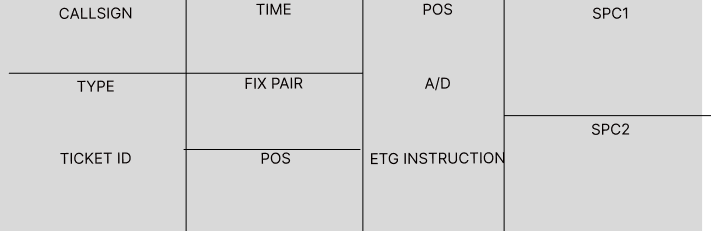
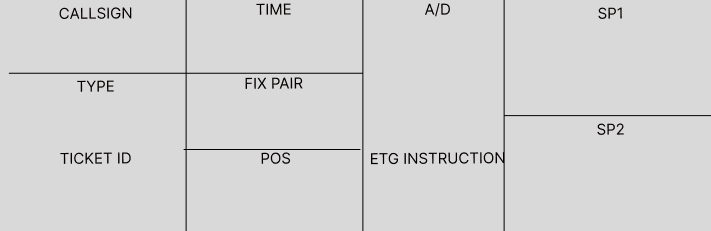
updated flight strip

diff --git a/SimFast/keyboard.js b/SimFast/keyboard.js
@@ -9,6 +9,107 @@ function addCharacter(character) {
   }
 
   function displayflightstrip(){
+
   const textField = document.getElementById("callsigntext");
-  textField.value += "001";
+  const ticketid = document.getElementById("ticketid");
+  const type = document.getElementById("type");
+  const fixpair = document.getElementById("fixpair");
+  const sp1 = document.getElementById("sp1");
+  const sp2 = document.getElementById("sp2");
+  const pos = document.getElementById("pos");
+  const ad = document.getElementById("ad");
+  const time = document.getElementById("time");
+  const etg= document.getElementById("etg");
+
+  textField.value = "";
+  ticketid.value = "";
+  type.value = "";
+  fixpair.value = "";
+  sp1.value = "";
+  sp2.value = "";
+  pos.value = "";
+  ad.value = "";
+  time.value = "";
+  etg.value = "";
+
+  textField.value += "AAL4401";
+  ticketid.value += "001";
+  type.value += "B350";
+  fixpair.value += "RBV.VCN";
+  sp1.value += "VCN";
+  sp2.value += "";
+  pos.value += "1V";
+  ad.value += "E";
+  time.value += "00:02:32";
+  etg.value += "A090H195";
   }
+
+//
+
+  function displayflightstrip2(){
+
+    const textField2 = document.getElementById("callsigntext");
+    const ticketid2 = document.getElementById("ticketid");
+    const type2 = document.getElementById("type");
+    const fixpair2 = document.getElementById("fixpair");
+    const sp12 = document.getElementById("sp1");
+    const sp22 = document.getElementById("sp2");
+    const pos2 = document.getElementById("pos");
+    const ad2 = document.getElementById("ad");
+    const time2 = document.getElementById("time");
+    const etg2 = document.getElementById("etg");
+  
+    textField2.value += "DAL5689";
+    ticketid2.value += "002";
+    type2.value += "A320";
+    fixpair2.value += "ORD.PHL";
+    sp12.value += "PHL";
+    sp22.value += "";
+    pos2.value += "1V";
+    ad2.value += "A";
+    time2.value += "00:02:32";
+    etg2.value += "A090H195";
+
+  }
+//
+
+  function displayflightstrip3(){
+    
+  }
+//
+
+  function displayflightstrip4(){
+    
+  }
+//
+
+  function displayflightstrip5(){
+    
+  }
+
+  //
+  function displayflightstrip6(){
+    
+  }
+//
+
+  function displayflightstrip7(){
+    
+  }
+//
+
+  function displayflightstrip8(){
+    
+  }
+//
+
+  function displayflightstrip9(){
+    
+  }
+//
+
+  function displayflightstrip10(){
+    
+  }
+
+//

diff --git a/SimFast/sim.html b/SimFast/sim.html
@@ -46,26 +46,33 @@
         <div id="map"></div>
         <div class="flightstrip"></div>
 
-        <input type="text" id="keyboardtextfield">
-        <input type="text" id="callsigntext">
+    <input type="text" id="callsigntext" value="">
+    <input type="text" id="ticketid" value="">
+    <input type="text" id="type" value="">
+    <input type="text" id="fixpair" value="">
+    <input type="text" id="sp1" value="">
+    <input type="text" id="sp2" value="">
+    <input type="text" id="pos" value="">
+    <input type="text" id="ad" value="">
+    <input type="text" id="time" value="">
+    <input type="text" id="etg" value="">
+
 
 
         <div class="database"></div>
+
         <button class="flight1" id="flight1" onclick="displayflightstrip('')"></button>
-        <div class="flight2"></div>
-        <div class="flight3"></div>
-        <div class="flight4"></div>
-        <div class="flight5"></div>
-        <div class="flight6"></div>
-        <div class="flight7"></div>
-        <div class="flight8"></div>
-        <div class="flight9"></div>
-        <div class="flight10"></div>
+        <button class="flight2" id="flight2" onclick="displayflightstrip('')"></button>
+        <button class="flight3" id="flight3" onclick="displayflightstrip('')"></button>
+        <button class="flight4" id="flight4" onclick="displayflightstrip('')"></button>
+        <button class="flight5" id="flight5" onclick="displayflightstrip('')"></button>
+        <button class="flight6" id="flight6" onclick="displayflightstrip('')"></button>
+        <button class="flight7" id="flight7" onclick="displayflightstrip('')"></button>
+        <button class="flight8" id="flight8" onclick="displayflightstrip('')"></button>
+        <button class="flight9" id="flight9" onclick="displayflightstrip('')"></button>
+        <button class="flight10" id="flight10" onclick="displayflightstrip('')"></button>
 
         
-    
-
-       
   
 
         <div class="keyboard"></div>

diff --git a/SimFast/style.css b/SimFast/style.css
@@ -132,6 +132,107 @@ background: url(flightstrip-image.png);
         background: rgba(107, 105, 105, 0.315);
          }
 
+#time {
+  position: absolute;
+width: 147px;
+height: 32px;
+left: 236px;
+top: 800px;
+background: rgba(107, 105, 105, 0.315);
+}
+
+#pos {
+  position: absolute;
+width: 147px;
+height: 32px;
+left: 236px;
+top: 963px;;
+
+background: rgba(107, 105, 105, 0.315);
+
+}
+
+#sp1 {
+position: absolute;
+width: 147px;
+height: 32px;
+left: 565px;
+top: 816px;
+
+background: rgba(107, 105, 105, 0.315);
+}
+
+#type {
+
+  position: absolute;
+width: 147px;
+height: 32px;
+left: 58px;
+top: 876px;
+background: rgba(107, 105, 105, 0.315);
+
+}
+
+#fixpair {
+
+  position: absolute;
+width: 147px;
+height: 32px;
+left: 236px;
+top: 876px;
+background: rgba(107, 105, 105, 0.315);
+}
+
+#ad{
+  position: absolute;
+width: 117px;
+height: 32px;
+left: 405px;
+top: 814px;
+  background: rgba(107, 105, 105, 0.315);
+}
+
+#ticketid{
+
+  position: absolute;
+width: 147px;
+height: 32px;
+left: 58px;
+top: 951px;
+background: rgba(107, 105, 105, 0.315);
+}
+
+#pos{
+
+  position: absolute;
+width: 147px;
+height: 32px;
+left: 236px;
+top: 951px;
+background: rgba(107, 105, 105, 0.315);
+}
+
+#etg {
+  position: absolute;
+  width: 117px;
+  height: 32px;
+  left: 405px;
+  top: 951px;
+  
+  background: rgba(107, 105, 105, 0.315);
+}
+
+#sp2{
+  position: absolute;
+  width: 147px;
+  height: 32px;
+  left: 565px;
+  top: 951px;
+  background: rgba(107, 105, 105, 0.315);
+
+}
+
+
 .database{
 position: absolute;
 width: 630px;
